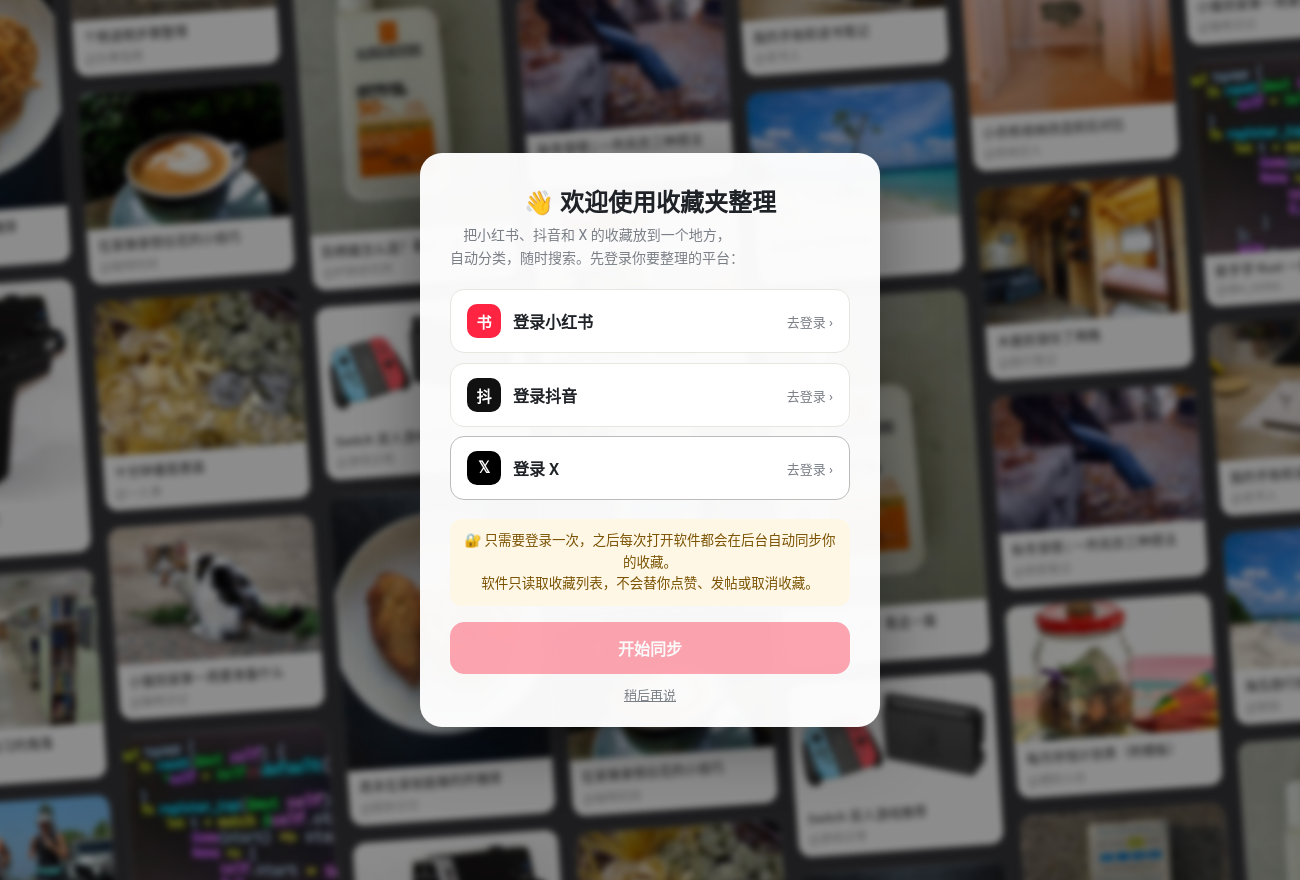
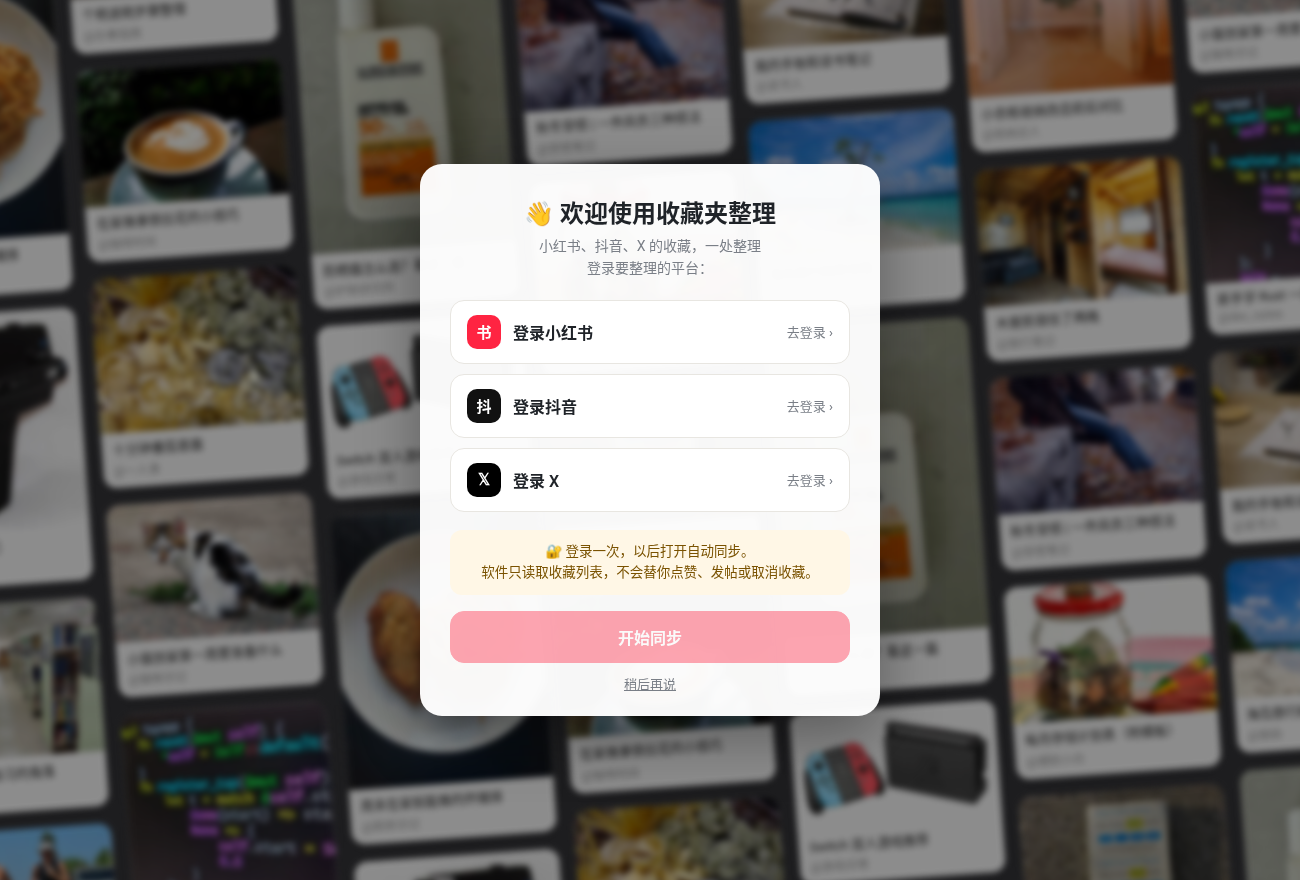
v1.3.12: X 增量同步滚动上限 + 进度日志；引导文案精简；作者名去重 @
- X 增量同步最多 40 次滚动 / 5 分钟，避免补修旧条目时长时间无日志
- 同步滚动每 10 次写一条进度日志
- 首次引导文案精简，修正副标题被 .sub flex 样式拆成两列的问题
- 作者名已带 @ 时不再显示 @@
- 更新 docs/onboarding.png（空数据渲染）

diff --git a/template.html b/template.html
@@ -185,7 +185,7 @@ main{padding:16px 0 60px}
 .ob-c .a{font-size:11px;padding:0 10px 9px;color:#999}
 .ob-box{position:relative;width:min(460px,92vw);background:rgba(255,255,255,.97);border-radius:22px;padding:30px 30px 22px;box-shadow:0 20px 60px rgba(0,0,0,.35);text-align:center}
 .ob-box h2{margin:0 0 6px;font-size:24px}
-.ob-box .sub{color:var(--muted);font-size:14px;margin:0 0 20px;line-height:1.6}
+.ob-box .sub{display:block;color:var(--muted);font-size:14px;margin:0 0 20px;line-height:1.6}
 .ob-btns{display:flex;flex-direction:column;gap:10px}
 .ob-b{display:flex;align-items:center;gap:12px;width:100%;border:1px solid var(--line);background:#fff;border-radius:14px;padding:14px 16px;font-size:16px;font-weight:600;color:var(--ink);cursor:pointer;transition:.15s}
 .ob-b:hover{border-color:#bbb;transform:translateY(-1px)}
@@ -243,13 +243,13 @@ main{padding:16px 0 60px}
   <div class="ob-wall" id="ob-wall" aria-hidden="true"></div>
   <div class="ob-box" role="dialog" aria-labelledby="ob-h">
     <h2 id="ob-h">👋 欢迎使用收藏夹整理</h2>
-    <p class="sub">把小红书、抖音和 X 的收藏放到一个地方，<br>自动分类，随时搜索。先登录你要整理的平台：</p>
+    <p class="sub">小红书、抖音、X 的收藏，一处整理<br>登录要整理的平台：</p>
     <div class="ob-btns">
       <button class="ob-b" data-p="rednote"><span class="ic" style="background:#ff2442">书</span>登录小红书<span class="go">去登录 ›</span></button>
       <button class="ob-b" data-p="douyin"><span class="ic" style="background:#111">抖</span>登录抖音<span class="go">去登录 ›</span></button>
       <button class="ob-b" data-p="x"><span class="ic" style="background:#000">𝕏</span>登录 X<span class="go">去登录 ›</span></button>
     </div>
-    <div class="ob-note">🔐 只需要登录一次，之后每次打开软件都会在后台自动同步你的收藏。<br>软件只读取收藏列表，不会替你点赞、发帖或取消收藏。</div>
+    <div class="ob-note">🔐 登录一次，以后打开自动同步。<br>软件只读取收藏列表，不会替你点赞、发帖或取消收藏。</div>
     <button class="btn primary ob-start" id="ob-start" disabled>开始同步</button>
     <button class="ob-later" id="ob-later">稍后再说</button>
   </div>
@@ -466,7 +466,7 @@ function cardHTML(it){var st=statusOf(it),c=catColor(it.category),exp=isExpired(
       '<span class="tag">'+(it.type==='video'?'▶ 视频':'🖼 图文')+'</span>'+
       '<span class="tag cat">'+(EMOJI[it.category]||'')+' '+esc(it.category)+'</span></div>'+
       '<p class="title">'+hl(it.title)+'</p>'+
-      '<div class="sub"><span class="au">@'+hl(it.author||'未知作者')+'</span><span>❤ '+esc(it.likes||'0')+'</span></div>'+
+      '<div class="sub"><span class="au">@'+hl(String(it.author||'未知作者').replace(/^@/,''))+'</span><span>❤ '+esc(it.likes||'0')+'</span></div>'+
       (exp&&it.expired_reason?'<div class="reason">⏰ '+esc(it.expired_reason)+'</div>':'')+'</div>'+
     '</a>'+xbarHTML(it)+
     '<div class="foot"><div class="status">'+STATUS.map(function(s){return '<button data-s="'+s[0]+'" class="s-'+s[0]+(st===s[0]?' on':'')+'">'+s[1]+'</button>';}).join('')+'</div></div></article>';}

diff --git a/electron/lib/sync.js b/electron/lib/sync.js
@@ -314,8 +314,8 @@ class SyncManager {
       }
 
       // ----- 滚动收集 -----
-      const maxScrolls = mode === 'full' ? 3000 : 120;
-      const deadline = Date.now() + (mode === 'full' ? 120 : 15) * 60 * 1000;
+      const maxScrolls = mode === 'full' ? 3000 : (platform === 'x' ? 40 : 120);
+      const deadline = Date.now() + (mode === 'full' ? 120 : (platform === 'x' ? 5 : 15)) * 60 * 1000;
       let idle = 0, lastCount = 0, lastH = 0, scrolls = 0, sinceBreak = 0, nextBreak = Math.round(rand(22, 34)), recover = 0;
       for (;;) {
         check();
@@ -349,6 +349,7 @@ class SyncManager {
         if (state.lastHasMore === false && keys.length === lastCount) { result.reachedEnd = true; result.stopReason = '已到收藏列表末尾'; break; }
         const sc = await this.scrollOnce(w);
         scrolls++; sinceBreak++;
+        if (scrolls % 10 === 0) this.log(`[${platform}] 滚动中 第 ${scrolls}/${maxScrolls} 次 已读取=${keys.length} 新增=${newCount}`);
         if (keys.length === lastCount && sc && Math.abs(sc.h - lastH) < 5) idle++; else idle = 0;
         lastCount = keys.length; lastH = sc ? sc.h : lastH;
         if (idle >= 6) {
